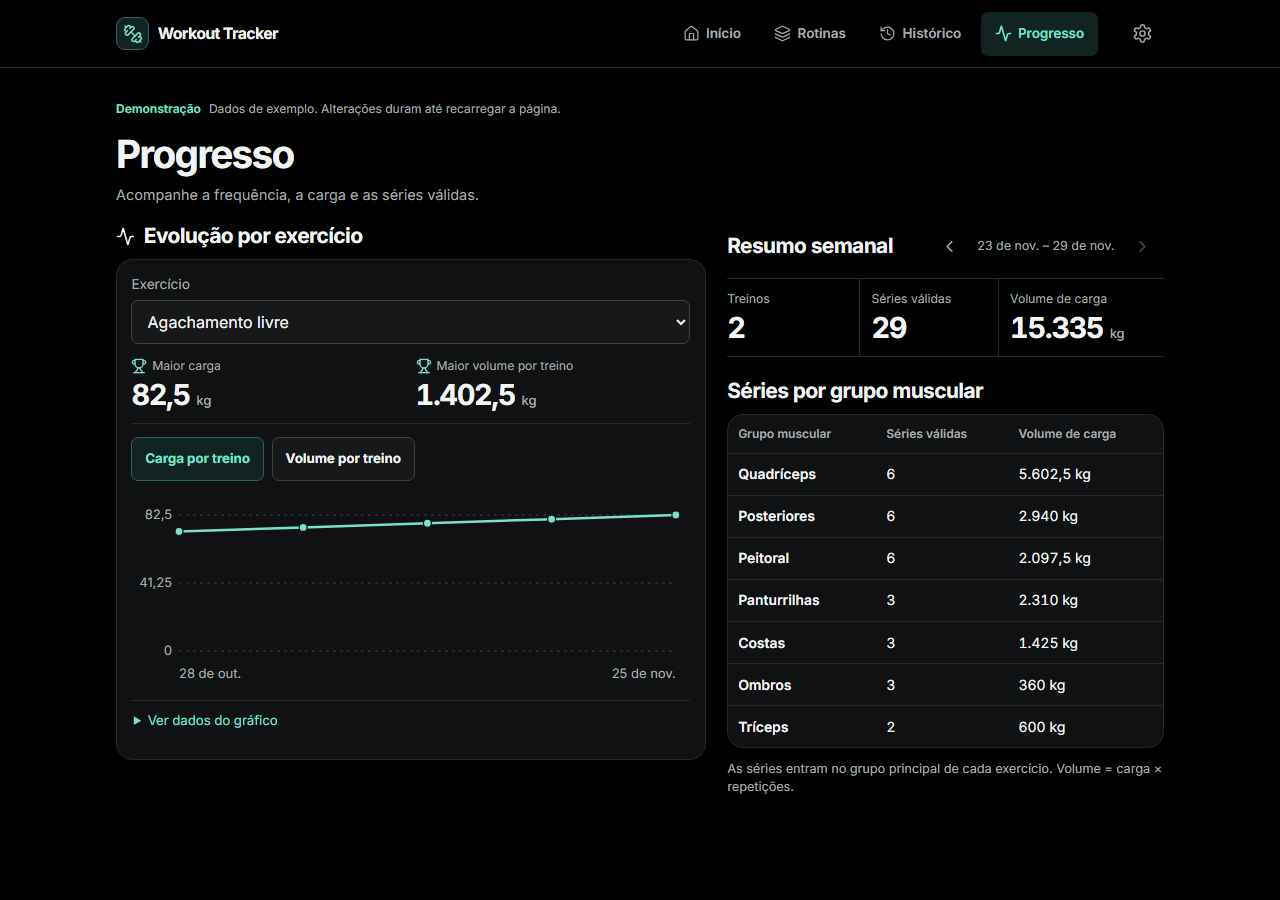
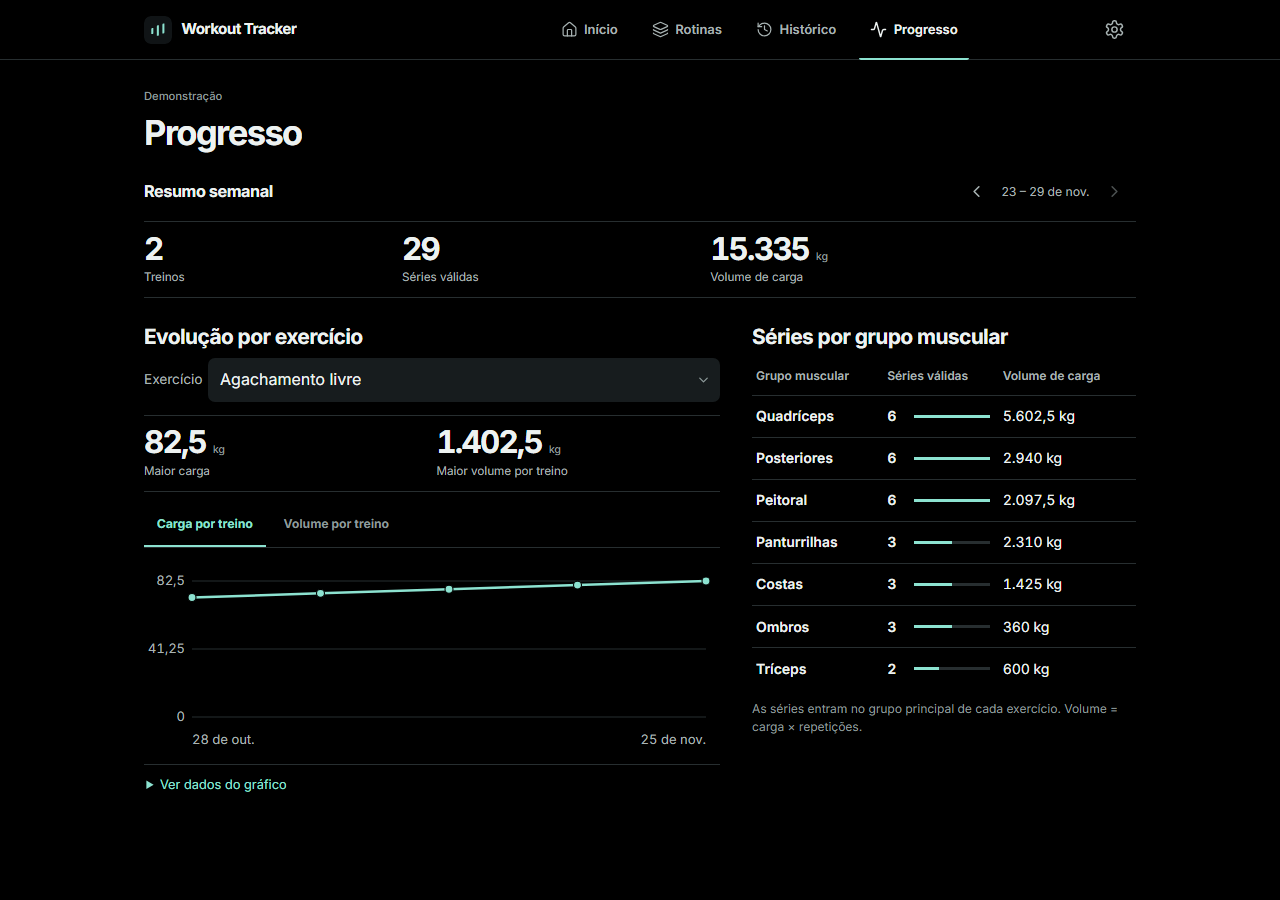
docs: record visual review, motion research, and browser captures

diff --git a/README.md b/README.md
@@ -1,6 +1,6 @@
 # Workout Tracker
 
-Aplicativo de treino em português brasileiro. Monte rotinas, registre séries e acompanhe sua progressão no dispositivo. A candidata `1.0.0-rc.2` reúne o módulo completo de treinamento.
+Aplicativo de treino em português brasileiro. Monte rotinas, registre séries e acompanhe sua progressão no dispositivo. A candidata `1.0.0-rc.3` reúne o módulo completo de treinamento.
 
 ## Avaliar a candidata
 
@@ -9,17 +9,17 @@ Use Node.js 24 LTS e npm. O build de produção permite avaliar instalação, us
 ```sh
 npm ci
 npm run build
-npm run preview -- --host 127.0.0.1 --port 4190
+npm run preview -- --host 127.0.0.1 --port 4194
 ```
 
-Abra [a aplicação](http://127.0.0.1:4190/). O armazenamento do navegador é vinculado ao endereço de acesso. Para trazer treinos de outro endereço, exporte um backup JSON lá e restaure em **Ajustes**.
+Abra [a aplicação](http://127.0.0.1:4194/). O armazenamento do navegador é vinculado ao endereço de acesso. Para trazer treinos de outro endereço, exporte um backup JSON lá e restaure em **Ajustes**.
 
-Para conferir a interface preenchida, execute `npm run build:demo` e `npm run preview -- --mode demo --host 127.0.0.1 --port 4191`. Abra [o catálogo de exemplo](http://127.0.0.1:4191/demo.html#/exercicios) ou [o treino ativo de exemplo](http://127.0.0.1:4191/demo.html?state=active#/treino). A demonstração usa o mesmo editor com um repositório em memória e repõe as amostras quando recarregada.
+Para conferir a interface preenchida, execute `npm run build:demo` e `npm run preview -- --mode demo --host 127.0.0.1 --port 4195`. Abra [o catálogo de exemplo](http://127.0.0.1:4195/demo.html#/exercicios) ou [o treino ativo de exemplo](http://127.0.0.1:4195/demo.html?state=active#/treino). A demonstração usa o mesmo editor com um repositório em memória e repõe as amostras quando recarregada.
 
 ## Usar o aplicativo
 
 1. Monte uma rotina ou inicie um treino livre em **Início**.
-2. Abra **Rotinas → Gerenciar exercícios** para buscar 76 movimentos por nome ou alias e filtrar por músculos e equipamento. A ficha reúne instruções, histórico, progressão e, quando disponível, demonstração em dois quadros. No treino, use o seletor rápido para adicionar movimentos. Use o menu de cada exercício para reordenar e ajustar o descanso da sessão. Em **Gerenciar exercícios**, defina o descanso padrão dos próximos treinos.
+2. Abra **Rotinas → Gerenciar exercícios** para buscar 76 movimentos por nome ou alias e filtrar por músculos e equipamento. A ficha reúne instruções, histórico, progressão e, quando disponível, quadros de execução sob demanda. No treino, use o seletor rápido para adicionar movimentos. Use o menu de cada exercício para reordenar e ajustar o descanso da sessão. Em **Gerenciar exercícios**, defina o descanso padrão dos próximos treinos.
 3. Digite a carga em kg com vírgula ou ponto, as repetições e, se quiser, RIR. Concluir a série inicia o descanso. O menu da série permite marcar aquecimento e mudar a ordem.
 4. Finalize o treino para consultá-lo ou editá-lo em **Histórico**. Em **Progresso**, veja frequência, volume e séries válidas por grupo muscular, evolução e recordes.
 5. Em **Ajustes**, instale o app, baixe um backup JSON ou exporte o histórico em CSV.
@@ -42,6 +42,7 @@ O navegador guarda seus dados localmente. Exporte um backup antes de limpar os d
 | Histórico | [Celular](docs/screenshots/rc/mobile-historico.png) | [Desktop](docs/screenshots/rc/desktop-historico.png) |
 | Progresso | [Celular](docs/screenshots/rc/mobile-progresso.png) | [Desktop](docs/screenshots/rc/desktop-progresso.png) |
 | Ajustes offline | [Celular](docs/screenshots/rc/mobile-ajustes-offline.png) | [Desktop](docs/screenshots/rc/desktop-ajustes-offline.png) |
+| Falha de armazenamento | [Celular](docs/screenshots/rc/mobile-erro-armazenamento.png) | [Desktop](docs/screenshots/rc/desktop-erro-armazenamento.png) |
 
 [Início vazio](docs/screenshots/rc/mobile-inicio-vazio.png) · [Treino vazio](docs/screenshots/rc/mobile-treino-vazio.png)
 
@@ -49,6 +50,8 @@ O navegador guarda seus dados localmente. Exporte um backup antes de limpar os d
 
 - [Roteiro de validação e testes](docs/validacao-rc.md)
 - [Sistema visual](docs/sistema-visual.md)
+- [Referências e decisões de design](docs/design-rc3.md)
+- [Avaliação de demonstrações animadas](docs/midia-em-movimento.md)
 - [Arquitetura e métricas](docs/arquitetura.md)
 - [Roadmap do produto e integrações](docs/roadmap.md)
 - [Comparativo das fontes do catálogo](docs/fontes-catalogo.md)

diff --git a/docs/design-rc3.md b/docs/design-rc3.md
@@ -1,0 +1,29 @@
+# Revisão de experiência
+
+A rc.2 repete bordas, cabeçalhos e superfícies preenchidas em áreas com funções distintas. No treino mobile, o título, o nome editável e os chips chegam antes da primeira linha. Em desktop, os painéis de progresso se comportam como widgets independentes. No catálogo, o fundo claro dos desenhos compete com o nome e a instrução.
+
+## Decisões extraídas das referências
+
+| Referência consultada | Decisão observada | Aplicação neste produto |
+| --- | --- | --- |
+| Hevy | O histórico anterior fica ao lado do registro, com confirmação explícita de cada série e descanso no contexto. | Manter carga anterior e cópia acessíveis na linha. Destacar a primeira confirmação pendente. [Fluxo de registro](https://www.hevyapp.com/features/track-workouts/) · [Capturas](https://apps.apple.com/us/app/hevy-workout-tracker-gym-log/id1458862350) |
+| Strong | Uma tabela compacta e valores alinhados deixam a operação previsível. | Diminuir o espaço vertical acima das séries e retirar contornos redundantes dos campos concluídos. [Interface oficial](https://www.strong.app/) · [Capturas](https://apps.apple.com/us/app/strong-workout-tracker-gym-log/id464254577) |
+| WHOOP | Uma métrica bem hierarquizada e referências temporais legíveis informam o que observar. | Colocar o período junto da leitura semanal e concentrar cor nos dados relevantes. A interface usa barras de séries, sem replicar o sistema de anéis. [Navegação e leitura](https://support.whoop.com/s/article/Navigating-the-WHOOP-Mobile-App?language=en_US) · [Capturas](https://apps.apple.com/us/app/whoop/id933944389) |
+| Bevel | A visão geral oferece caminhos de aprofundamento por assunto, com profundidade ligada ao contexto. | A ficha aproxima orientação, execução e evolução; os futuros módulos poderão reutilizar a organização de métricas sem ocupar o menu atual. [Capturas](https://apps.apple.com/us/app/bevel-ai-health-coach/id6456176249) |
+| MacroFactor | Resumo temporal, métrica e detalhe têm níveis distintos, com dados granulares disponíveis. | O resumo semanal tem uma hierarquia própria e a tabela do gráfico continua acessível. [Guia com telas reais](https://help.macrofactorapp.com/en/articles/22-get-to-know-your-dashboard) · [Capturas](https://apps.apple.com/us/app/macrofactor-macro-tracker/id1553503471) |
+
+A leitura das referências foi feita nas telas públicas conduzidas pelos próprios produtos e na documentação dos fluxos. Nenhum asset de interface dos concorrentes integra o build.
+
+## Direção
+
+A interface usa preto `#000000`, superfície fria `#101416`, controles `#171C1E`, texto `#EDF2F1` e turquesa mineral `#8CE2D0`. Inter permanece como família única. O peso regular domina leitura e campos; números tabulares alinham séries e métricas. Títulos de tela e títulos de sessão têm papéis distintos e escala moderada.
+
+No celular, primeiro a ação, depois o ritmo semanal e as rotinas. Nas sessões, título e progresso cedem altura à primeira tabela, enquanto descanso, adição e finalização permanecem na zona de toque inferior. No desktop, conteúdo e contexto usam duas larguras deliberadas. O treino põe ações em uma coluna fixa ao rolar, e o resto do produto alinha a navegação por texto e marcação de página.
+
+A assinatura visual deriva do registro. Três marcas verticais no símbolo lembram séries anotadas. Faixas de carga de trabalho na semana mostram séries válidas reais e usam a mesma gramática de dados do progresso. Cor indica ação, sessão e estado. Abertura de detalhes, pressão e foco respondem ao usuário. O layout respeita redução de movimento.
+
+## Revisão após capturas reais
+
+A primeira captura mostrou que o botão de treino livre tinha largura excessiva no desktop e que os filtros do navegador tinham peso visual desigual em WebKit. A largura passou a acompanhar a ação, os seletores receberam o mesmo tratamento visual e a legenda passou a explicar o gráfico de séries por dia. O seletor de exercício no progresso usa o mesmo controle. A curva distribui pontos pela data real das sessões.
+
+No treino preenchido de 393 × 750 px CSS, a primeira confirmação pendente fica visível acima do dock. Os valores concluídos passam a texto tabular sem fundo individual, e o campo pronto para uso mantém o alvo de toque. A coluna lateral do desktop deixa o cronômetro e as ações disponíveis na rolagem. A suíte verifica essas duas posições e a recuperação quando o armazenamento falha.

diff --git a/docs/midia-em-movimento.md b/docs/midia-em-movimento.md
@@ -1,0 +1,19 @@
+# Avaliação de demonstrações animadas
+
+Foram examinados arquivos, termos dos fornecedores e as condições necessárias para distribuir comercialmente uma PWA que funcione offline. A avaliação prioriza clareza da variante, enquadramento consistente, atribuição por arquivo e direitos sobre cópia, transformação e redistribuição.
+
+| Fonte | Avaliação visual e técnica | Licença e decisão |
+| --- | --- | --- |
+| FitnessScape no Wikimedia Commons | Os clipes testados de supino e agachamento mostram pessoas e equipamentos reais, a 720p. A perspectiva varia entre movimentos e uma faixa em inglês cobre parte da imagem. A amostra tem cobertura e tratamento visual insuficientes para uma biblioteca uniforme. | Ambos declaram CC BY 3.0 e remetem ao vídeo original. Os arquivos foram inspecionados localmente, sem incorporação. [Supino](https://commons.wikimedia.org/wiki/File:Bench_press_-_exercise_demonstration_video.webm) · [Agachamento](https://commons.wikimedia.org/wiki/File:Squat_-_exercise_demonstration_video.webm) |
+| RepDB | Pares de imagens consistentes e, nos pacotes comerciais, clipes em GIF, MP4 e WebP. A variante deve ser revisada por movimento. | A licença gratuita limita a redistribuição de dados e WebP. As animações das amostras têm termos de avaliação, e a biblioteca animada depende de pacote pago. [Licença](https://github.com/RepDB/exercise-dataset/blob/main/LICENSE-DATA.md) · [Formatos](https://github.com/RepDB/exercise-dataset/blob/main/README.md) |
+| ExerciseDB OSS | GIFs compactos, repetíveis e com cobertura ampla. A oferta gratuita fornece GIFs de 180p. | A oferta gratuita exige crédito e limita a uso não comercial. Espelhos do conteúdo não eliminam essa restrição. O pacote comercial é uma oferta separada. [API gratuita](https://oss.exercisedb.dev/docs) · [Pacote comercial](https://exercisedb.io/faq) |
+| MuscleWiki | Vídeos enquadrados para instrução e biblioteca ampla. O uso licenciado exige manter a marcação do fornecedor. | Os planos pagos permitem uso comercial no aplicativo com atribuição. Os termos publicados restringem armazenamento offline de mídia e redistribuição. Projetos de terceiros com código MIT não transferem esses direitos. [Termos da API](https://api.musclewiki.com/api-terms) · [FAQ](https://api.musclewiki.com/faq) |
+| wger e outros arquivos no Commons | Uma seleção por arquivo pode trazer vídeos úteis, com variação de cenário, equipamento e qualidade. | Confirmar titular, variante, licença e obrigações por arquivo. A licença do software do wger e a licença do conteúdo inicial não conferem automaticamente direitos sobre cada vídeo. [Repositório](https://github.com/wger-project/wger) · [Coleção do Commons](https://commons.wikimedia.org/wiki/Category:Videos_of_people_demonstrating_strength_training_exercises) |
+
+## Apresentação e próxima integração
+
+A ficha abre com músculos e instruções. Os 28 pares Everkinetic continuam acessíveis em **Quadros de execução**, junto dos créditos. As miniaturas do catálogo receberam tratamento de visualização em tons escuros por CSS. Os arquivos distribuídos e sua licença permanecem os mesmos. Para fichas sem quadros, uma linha de texto discreta informa a disponibilidade.
+
+A associação continua no registro editorial em `src/catalog/media.ts`. O tipo `frames` identifica o conteúdo entregue hoje. Uma futura variante de mídia pode acrescentar formato, fonte local, poster, dimensões, licença, crédito e revisão por arquivo sob o mesmo ID interno. A alteração fica concentrada na apresentação da ficha e na política de cache. Exercícios pessoais, histórico, rotinas, treino e backup continuam sem dependência de mídia.
+
+Para um lote futuro, validar reprodução manual inline em Safari e Chromium, legibilidade no menor viewport, ausência de áudio e respeito ao movimento reduzido. MP4 pode usar controles nativos. GIF ou WebP animado precisa ser ativado explicitamente e substituível por poster estático. Definir orçamento por arquivo e política de cache antes de incluir qualquer lote no service worker. Uma coleção gravada para o projeto com direitos compatíveis permite padronizar enquadramento, ritmo e equipamento. [Créditos dos quadros atuais](catalogo-midias.md)

diff --git a/docs/sistema-visual.md b/docs/sistema-visual.md
@@ -1,18 +1,20 @@
 # Sistema visual
 
-O fundo é preto absoluto, com separação entre superfícies por luminância e divisórias finas. O destaque turquesa é reservado a ações principais, seleção, foco e confirmações de treino. A tipografia Inter é servida localmente e usa algarismos tabulares em campos, cronômetros e métricas.
+O fundo preto absoluto sustenta todos os destinos. Superfícies aparecem para campos, menus e comandos que precisam ser reconhecidos rapidamente. As listas usam alinhamento, tipografia e divisórias. Inter é servida localmente, com algarismos tabulares em cargas, repetições, cronômetro e totais.
 
-| Papel | Valor de referência | Aplicação |
+| Papel | Valor | Aplicação |
 | --- | --- | --- |
-| Fundo | `#000000` | Tela e barras globais |
-| Superfície | `#101112` | Exercícios, formulários e sessões |
-| Campo | `#171819` | Entradas e ações secundárias |
-| Texto | `#f3f5f5` | Leitura e valores |
-| Texto secundário | `#a6adad` | Unidades, metadados e instruções |
-| Destaque | `#76e3cb` | Próxima série, ação principal e foco |
+| Fundo | `#000000` | Tela |
+| Superfície | `#101416` | Contextos de ação, seleção e formulários |
+| Campo | `#171c1e` | Entradas e comandos secundários |
+| Texto | `#edf2f1` | Leitura principal |
+| Texto secundário | `#a8b3b3` | Metadados, unidades e instruções |
+| Destaque | `#8ce2d0` | Ação principal, foco, confirmação e séries na semana |
 
-Os valores ficam em `src/tokens.css`. Botões, campos, modais, estados vazios e linhas de lista compartilham estados, margens e contornos em `src/styles.css`. As telas reutilizam `Title`, `Dialog`, `Empty` e `Order`. O shell organiza quatro destinos de treinamento, com Ajustes no cabeçalho. A entrada de futuros módulos poderá reutilizar os mesmos componentes com navegação contextual.
+`src/tokens.css` define os papéis. Bordas e preenchimentos indicam função. A lista de histórico usa uma coluna de data e outra de métricas, a área de rotinas separa ação e organização, e o progresso combina resumo do período, série histórica e distribuição muscular. Cada destino mantém a mesma anatomia de títulos, listas e ações, com o layout definido pelo conteúdo.
 
-No treino ativo, a ordem de leitura é nome, progresso da sessão, exercícios, valores anteriores e ações de descanso. O dock concentra as ações que precisam ficar acessíveis perto do polegar. O menor alvo dos controles principais mede pelo menos 44 pixels CSS nas verificações. O tipo da série e o estado de conclusão contam com texto acessível e forma visual. O foco aparece com contorno e a interface respeita movimento reduzido. [Referência de tamanho de alvo](https://www.w3.org/WAI/WCAG22/Understanding/target-size-minimum.html)
+No celular, quatro destinos ficam na barra inferior. Ajustes permanece no cabeçalho. Em telas largas, navegação e marca compartilham uma linha, com marcação inferior do destino ativo. A mesma estrutura poderá receber navegação contextual para novos módulos quando existirem rotas reais.
 
-A referência do Hevy orientou a proximidade entre série atual, série anterior e descanso por exercício. Os componentes, a navegação e a linguagem visual do Workout Tracker foram definidos para este produto. [Registro de treinos no Hevy](https://www.hevyapp.com/features/track-workouts/) · [Cronômetro do Hevy](https://www.hevyapp.com/features/workout-rest-timer/)
+No treino, o contador de séries e a sequência precedem a tabela. A primeira confirmação pendente recebe o destaque principal. Carga anterior e cópia permanecem na linha, abaixo dos campos no celular. Controles de sessão ficam no rodapé móvel e em uma coluna lateral no desktop. O foco tem contorno visível e animações de estado respeitam movimento reduzido. [Tamanho de alvo, WCAG 2.2](https://www.w3.org/WAI/WCAG22/Understanding/target-size-minimum.html)
+
+[Avaliação das referências e iterações](design-rc3.md)

diff --git a/docs/validacao-rc.md b/docs/validacao-rc.md
@@ -1,4 +1,4 @@
-# Validação da candidata 1.0.0-rc.2
+# Validação da candidata 1.0.0-rc.3
 
 ## Reproduzir
 
@@ -22,10 +22,10 @@ Em Linux, `npx playwright install --with-deps chromium webkit` instala também a
 | ESLint, TypeScript estrito, build de produção e build de demonstração | Aprovados. |
 | Domínio e integração | 27 testes incluindo preservação dos 34 IDs originais, coexistência com exercícios pessoais e arquivados, gravação concorrente e restauração de backups anteriores. |
 | Fluxos de interface | 8 execuções em Chromium e WebKit, cobrindo rotina, reordenação, cargas decimais, aquecimento, retomada, edição do treino, arquivo e restauração de backups. |
-| Suíte da candidata | 8 execuções em Chromium e WebKit também aprovadas no subcaminho do portfólio. O catálogo valida busca por alias, músculos secundários, equipamentos, créditos, imagens, histórico e alternância de métrica por exercício. |
+| Suíte da candidata | 10 execuções em Chromium e WebKit também aprovadas no subcaminho do portfólio. O catálogo valida busca por alias, músculos secundários, equipamentos, créditos, imagens, histórico e alternância de métrica por exercício. A interface cobre retomada após falha de armazenamento, posição da próxima confirmação em 393 px e alinhamento dos controles no desktop. |
 | Acessibilidade e layout | Axe com regras WCAG 2.0, 2.1 e 2.2 A/AA nas superfícies exercitadas. Testes de foco, Escape, alvos de toque e largura a 320, 393, 768 e 1280 px CSS. |
 | PWA e armazenamento | Manifesto, ícones comuns, maskable e iOS servidos. Chromium aprovou os critérios de instalação via DevTools. Em rede desligada, o app recarregou o treino e os quadros, persistiu no IndexedDB, finalizou a sessão, exportou CSV e gerou JSON restaurado em outro perfil. |
-| Imagens | 28 pares WebP mais 28 miniaturas, 644.136 bytes no total. A suíte valida os arquivos e os metadados. O seletor do treino não carrega imagens do catálogo. |
+| Imagens | 28 pares WebP mais 28 miniaturas, 644.136 bytes no total. A suíte valida os arquivos e os metadados. O seletor do treino não carrega imagens do catálogo. As fichas abrem os quadros por solicitação, e a suíte verifica o acesso offline. |
 | Dependências | `npm audit` em produção e desenvolvimento sem vulnerabilidades reportadas na execução de 26/11/2026. |
 
 A demo injeta um repositório em memória. Uma verificação falha se ela tentar usar IndexedDB. As alterações de demonstração são descartadas ao recarregar. As capturas usam exclusivamente dados de exemplo.

diff --git a/docs/releases/v1.0.0.md b/docs/releases/v1.0.0.md
@@ -3,10 +3,10 @@
 ## Notas preparadas
 
 - Treinamento completo em português, com rotinas, registro de séries e RIR, descanso, histórico editável, recordes e progressão.
-- Catálogo local de 76 movimentos, com aliases, filtros e fichas técnicas. Demonstrações em dois quadros para 28 exercícios.
+- Catálogo local de 76 movimentos, com aliases, filtros e fichas técnicas. Referências em dois quadros sob demanda para 28 exercícios.
 - PWA instalável, rascunho offline, armazenamento local, backup JSON restaurável e histórico CSV.
 
-A candidata para aprovação é `1.0.0-rc.2`. O backup JSON continua no formato 1 e os dados salvos no mesmo endereço permanecem disponíveis. Ao trocar de endereço, leve os dados pelo backup antes de começar a registrar em produção.
+A candidata para aprovação é `1.0.0-rc.3`. O backup JSON continua no formato 1 e os dados salvos no mesmo endereço permanecem disponíveis. Ao trocar de endereço, leve os dados pelo backup antes de começar a registrar em produção.
 
 ## Publicação após aprovação
 
